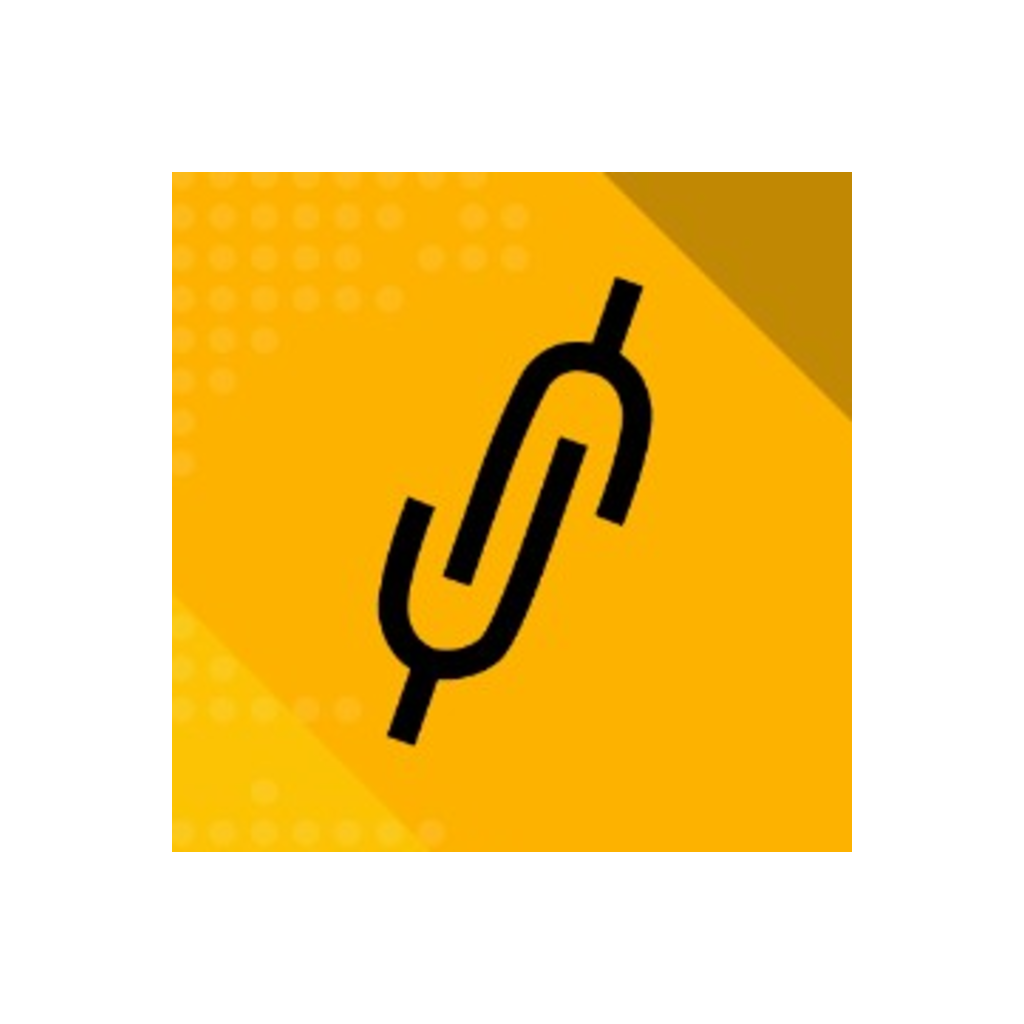
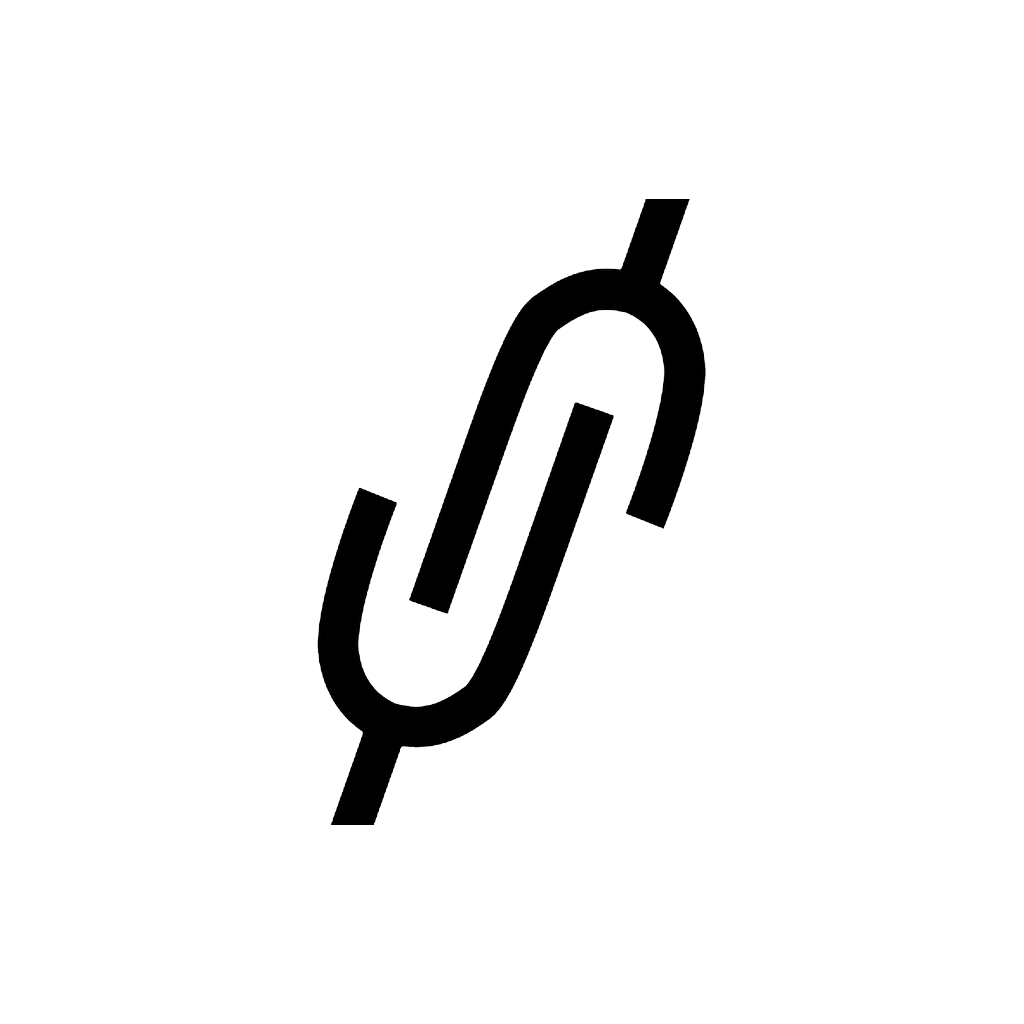
fixes: bach redirect

diff --git a/src/app/subscriptions/index.tsx b/src/app/subscriptions/index.tsx
@@ -11,7 +11,7 @@ import { Button } from '@/components/ui/button';
 import type { SubscriptionCategory, SubscriptionPlan } from '@/constants/subscriptions-data';
 import type { SubscriptionPlanApi } from '@/lib/api/types';
 import { alertError, alertSuccess } from '@/lib/errors';
-import { isHostedCheckout, waitForWhopPayment } from '@/lib/whop-checkout';
+import { isHostedCheckout, openHostedCheckout, waitForWhopPayment } from '@/lib/whop-checkout';
 import {
   checkoutSubscription,
   fetchSubscriptionPlans,
@@ -82,7 +82,11 @@ export default function SubscriptionsScreen() {
           result.payment.mode === 'paystack') &&
         result.payment.authorizationUrl
       ) {
-        await WebBrowser.openBrowserAsync(result.payment.authorizationUrl);
+        if (isHostedCheckout(result.payment.mode)) {
+          await openHostedCheckout(result.payment.authorizationUrl);
+        } else {
+          await WebBrowser.openBrowserAsync(result.payment.authorizationUrl);
+        }
         if (isHostedCheckout(result.payment.mode)) {
           const status = await waitForWhopPayment(result.payment.reference);
           if (status.status !== 'PAID') {

diff --git a/src/app/pool/payment/[id].tsx b/src/app/pool/payment/[id].tsx
@@ -1,4 +1,3 @@
-import * as WebBrowser from 'expo-web-browser';
 import { router, useLocalSearchParams, type Href } from 'expo-router';
 import { SymbolView } from 'expo-symbols';
 import { useEffect, useMemo, useState } from 'react';
@@ -16,7 +15,7 @@ import { cn } from '@/lib/cn';
 import { alertError, alertSuccess } from '@/lib/errors';
 import { fetchPool, joinPool } from '@/lib/pool';
 import { setPoolSubmitResult } from '@/lib/pool-draft';
-import { isHostedCheckout, waitForWhopPayment } from '@/lib/whop-checkout';
+import { isHostedCheckout, openHostedCheckout, waitForWhopPayment } from '@/lib/whop-checkout';
 
 function formatUsd(amount: number) {
   return new Intl.NumberFormat('en-US', {
@@ -94,7 +93,7 @@ export default function PoolPaymentScreen() {
       });
 
       if (isHostedCheckout(result.checkout?.mode) && result.checkout.url) {
-        await WebBrowser.openBrowserAsync(result.checkout.url);
+        await openHostedCheckout(result.checkout.url);
         const status = await waitForWhopPayment(result.checkout.paymentId);
         if (status.status !== 'PAID') {
           throw new Error(

diff --git a/src/app/invest/payment.tsx b/src/app/invest/payment.tsx
@@ -1,4 +1,3 @@
-import * as WebBrowser from 'expo-web-browser';
 import { router, type Href } from 'expo-router';
 import { useState } from 'react';
 import { Pressable, ScrollView, Text, View } from 'react-native';
@@ -9,7 +8,7 @@ import { cn } from '@/lib/cn';
 import { alertError, alertSuccess } from '@/lib/errors';
 import { createInvestment } from '@/lib/invest';
 import { getInvestDraft, setInvestSubmitResult } from '@/lib/invest-draft';
-import { isHostedCheckout, waitForWhopPayment } from '@/lib/whop-checkout';
+import { isHostedCheckout, openHostedCheckout, waitForWhopPayment } from '@/lib/whop-checkout';
 
 function formatUsd(amount: number) {
   return new Intl.NumberFormat('en-US', {
@@ -41,7 +40,7 @@ export default function PaymentScreen() {
       });
 
       if (isHostedCheckout(result.checkout?.mode) && result.checkout.url) {
-        await WebBrowser.openBrowserAsync(result.checkout.url);
+        await openHostedCheckout(result.checkout.url);
         const status = await waitForWhopPayment(result.checkout.paymentId);
         if (status.status !== 'PAID') {
           throw new Error(

diff --git a/src/app/signals/plan.tsx b/src/app/signals/plan.tsx
@@ -14,7 +14,7 @@ import {
 } from '@/constants/subscriptions-data';
 import type { SubscriptionPlanApi } from '@/lib/api/types';
 import { alertError, alertSuccess } from '@/lib/errors';
-import { isHostedCheckout, waitForWhopPayment } from '@/lib/whop-checkout';
+import { isHostedCheckout, openHostedCheckout, waitForWhopPayment } from '@/lib/whop-checkout';
 import {
   checkoutSubscription,
   fetchSubscriptionPlans,
@@ -74,7 +74,11 @@ export default function SignalsPlanScreen() {
           result.payment.mode === 'paystack') &&
         result.payment.authorizationUrl
       ) {
-        await WebBrowser.openBrowserAsync(result.payment.authorizationUrl);
+        if (isHostedCheckout(result.payment.mode)) {
+          await openHostedCheckout(result.payment.authorizationUrl);
+        } else {
+          await WebBrowser.openBrowserAsync(result.payment.authorizationUrl);
+        }
         if (isHostedCheckout(result.payment.mode)) {
           const status = await waitForWhopPayment(result.payment.reference);
           if (status.status !== 'PAID') {

diff --git a/src/lib/whop-checkout.ts b/src/lib/whop-checkout.ts
@@ -1,4 +1,10 @@
+import * as WebBrowser from 'expo-web-browser';
+
 import { apiRequest } from '@/lib/api/client';
+
+const APP_RETURN_URL = 'jmjtradingapp://payment/return';
+
+WebBrowser.maybeCompleteAuthSession();
 
 export type WhopPaymentStatus = {
   id: string;
@@ -9,6 +15,13 @@ export type WhopPaymentStatus = {
 
 export function isHostedCheckout(mode: string | null | undefined) {
   return mode === 'bachs' || mode === 'whop';
+}
+
+export function openHostedCheckout(url: string) {
+  return WebBrowser.openAuthSessionAsync(url, APP_RETURN_URL, {
+    createTask: false,
+    showInRecents: false,
+  });
 }
 
 export async function waitForWhopPayment(paymentId: string) {

diff --git a/app.config.js b/app.config.js
@@ -41,7 +41,8 @@ module.exports = {
       process.env.GOOGLE_SERVICES_JSON || './google-services.json',
     adaptiveIcon: {
       backgroundColor: '#F5C518',
-      foregroundImage: './assets/images/icon.png',
+      backgroundImage: './assets/images/android-icon-background.png',
+      foregroundImage: './assets/images/android-icon-foreground.png',
       monochromeImage: './assets/images/android-icon-monochrome.png',
     },
     predictiveBackGestureEnabled: false,

diff --git a/src/app/+native-intent.ts b/src/app/+native-intent.ts
@@ -1,0 +1,16 @@
+export function redirectSystemPath({
+  path,
+  initial,
+}: {
+  path: string;
+  initial: boolean;
+}): string | null {
+  try {
+    if (path.includes('payment/return')) {
+      return initial ? '/(tabs)/home' : null;
+    }
+    return path;
+  } catch {
+    return '/(tabs)/home';
+  }
+}
